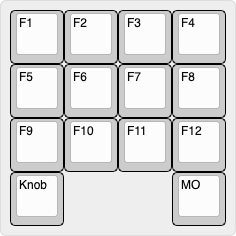
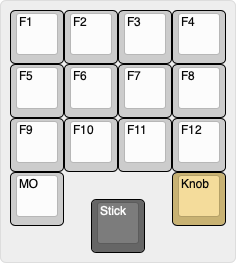
Change layout
Swap the MO and knob and add a stick controller

diff --git a/README.md b/README.md
@@ -13,6 +13,7 @@ It is primarily designed to be a compact keyboard with support for 12 function k
 - USB-C (USB2.0, HID)
 - Hot-swap sockets for MX compatible switches
 - Incremental encoder with push momentary switch
+- Stick controller with push momentary switch
 - Programmable firmware (CircuitPython)
 - No LEDs
 - No keycaps
@@ -20,17 +21,19 @@ It is primarily designed to be a compact keyboard with support for 12 function k
 
 ## Layout
 
+📄 [layout/keyboard-layout.png](layout/keyboard-layout.png) (rev.2)
 ![keyboard layout](layout/keyboard-layout.png)
 
 - 12 function keys (F1 - F12)
 - 1 momentary layer key (MO)
 - 1 incremental encoder (Knob)
+- 1 stick controller (Stick)
 
 It is important that there are four rows.
 Just like the function keys on many keyboards are divided into four rows each. It is also important that it is easy to operate with one hand.
 
-Designed to be used with the left hand.
-In particular, the MO key is placed so that it can be pressed with the thumb.
+It is designed to be used with the left hand.
+In particular, the incremental encoder and stick controller are placed in easy-to-operate positions.
 
 **RAW data for Keyboard Layout Editor v0.15:**
 
@@ -40,10 +43,14 @@ In particular, the MO key is placed so that it can be pressed with the thumb.
 ["F1","F2","F3","F4"],
 ["F5","F6","F7","F8"],
 ["F9","F10","F11","F12"],
-["Knob",{x:2},"MO"],
+["MO",{x:2,c:"#c8b273"},"Knob"],
+[{y:-0.5,x:1.5,c:"#666666",t:"#cccccc"},"Stick"],
 ```
 
 - 🔗 [Keyboard Layout Editor](http://www.keyboard-layout-editor.com/)
+
+---
+!!!: The following is old information for reference.
 
 ## Schematic
 

diff --git a/NOTE.md b/NOTE.md
@@ -10,6 +10,10 @@
   - Bourns PEC12R-4xxxF-Sxxxx
     - <https://www.bourns.com/products/encoders/contacting-encoders/product/PEC12R>
 
+- Stick Controller
+  - Alps Alpine RKJXV/RKJX2 Series
+    - <https://tech.alpsalpine.com/prod/e/html/multicontrol/potentiometer/rkjxk/rkjxk_list.html>
+
 - Programmable firmware (CircuitPython)
   - <https://circuitpython.org/>
   - <https://docs.circuitpython.org/en/latest/BUILDING.html>
